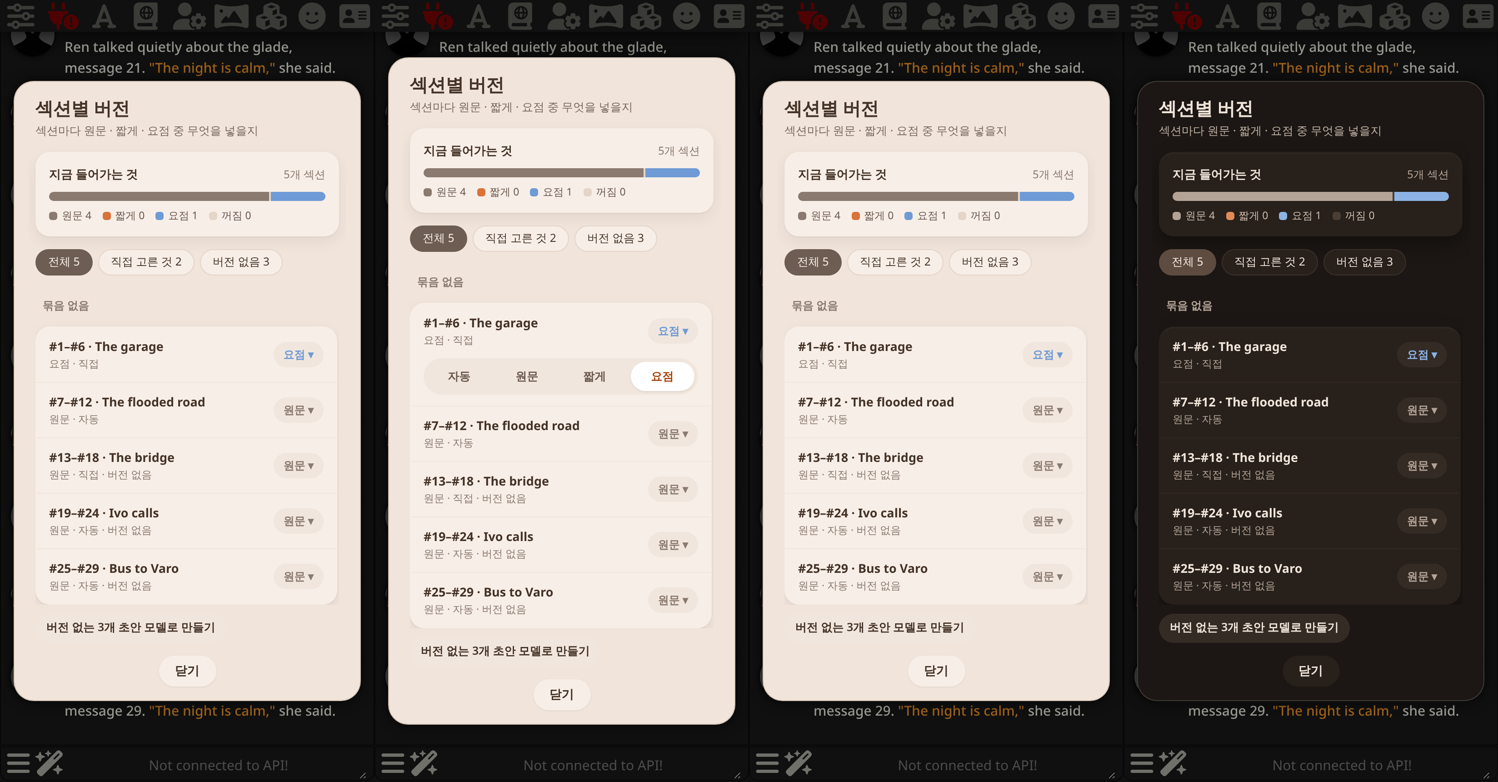
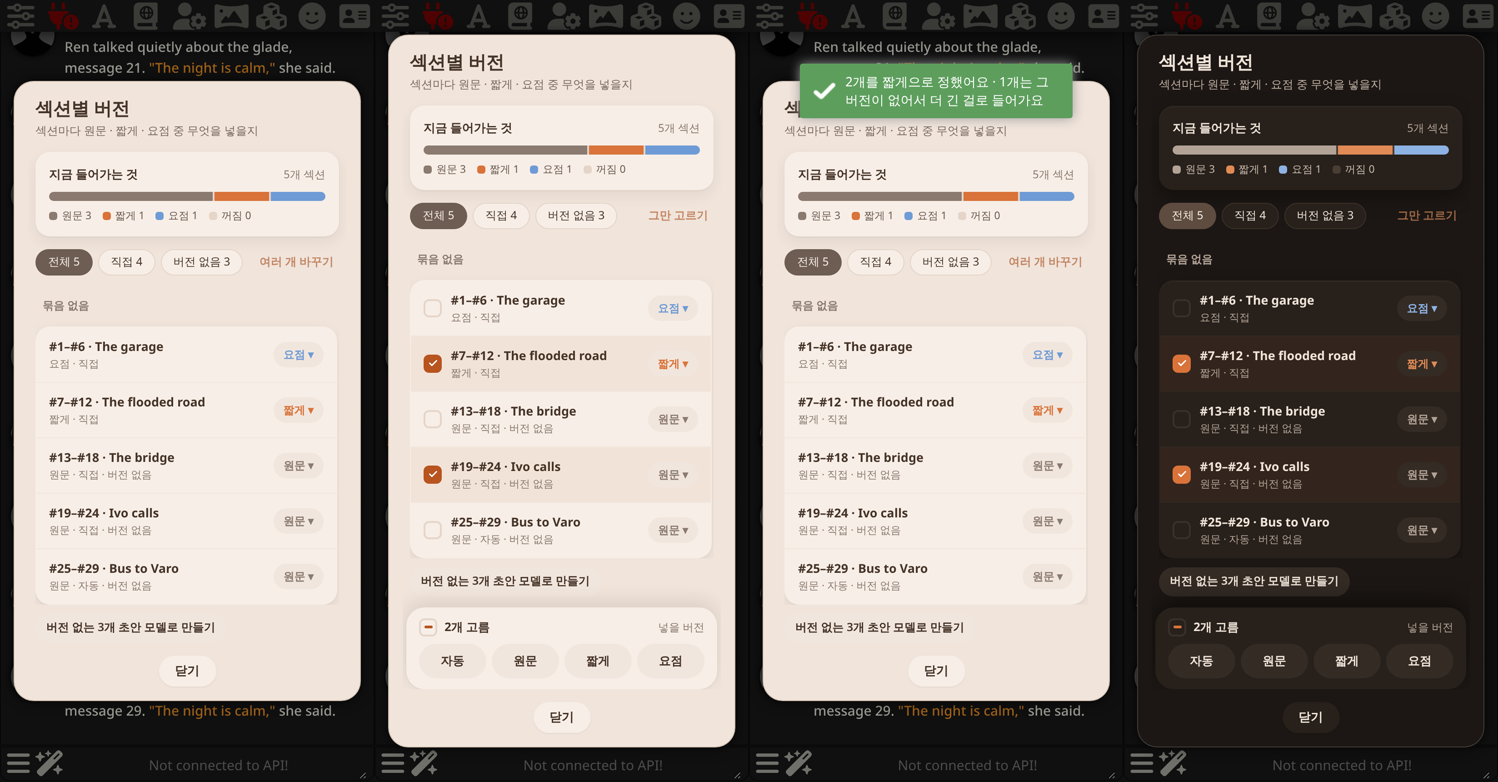
3.164.1: 섹션별 버전: 여러 개 바꾸기 — tick sections, set them all at once from a sheet at the bottom (자동 · 원문 · 짧게 · 요점)
Claude-Session: https://claude.ai/code/session_01TBUyc5NesEMBcPKHWzpL6W

diff --git a/src/fade.js b/src/fade.js
@@ -449,14 +449,19 @@ export async function openFadePicker() {
     // menu (자동 · 원문 · 짧게 · 요점; a version not made yet is greyed); 꺼짐 rows are dimmed
     const c = ctx();
     const name = { long: '원문', short: '짧게', line: '요점', off: '꺼짐' };
-    let filter = 'all', open = '';
+    let filter = 'all', open = '', multi = false;
+    const picked = new Set();
     const $root = $(`
       <div class="na_popup na_v2 na_fp na_fp3">
         <div class="na_v2_title"><b>섹션별 버전</b><small>섹션마다 원문 · 짧게 · 요점 중 무엇을 넣을지</small></div>
         <div class="na_v2_card na_fp3_sum"></div>
-        <div class="na_v2_chips na_fp_filters"></div>
+        <div class="na_fp3_fl"><div class="na_v2_chips na_fp_filters"></div><button type="button" class="na_linkbtn na_fp3_multi">여러 개 바꾸기</button></div>
         <div class="na_fp_list"></div>
         <div class="na_fp3_more"><button type="button" class="na_fp3_tool na_fp_make" hidden></button></div>
+        <div class="na_fp3_bulk" hidden>
+          <div class="na_fp3_bh"><label class="na_fp3_allp"><input type="checkbox" class="na_fp3_allbox"><span class="na_fp3_ck na_fp3_allck"></span><span class="na_fp3_n">0개 고름</span></label><small>넣을 버전</small></div>
+          <div class="na_fp3_set">${[['auto', '자동'], ['long', '원문'], ['short', '짧게'], ['line', '요점']].map(([v, l]) => `<button type="button" data-v="${v}">${l}</button>`).join('')}</div>
+        </div>
       </div>`);
     const rows = () => {
         const m = getMeta();
@@ -482,7 +487,7 @@ export async function openFadePicker() {
         $root.find('.na_fp3_sum').html(`<div class="na_fp3_sh"><b>지금 들어가는 것</b><small>${all.length}개 섹션</small></div>
           <div class="na_fp3_bar">${['long', 'short', 'line', 'off'].map(u => cnt[u] ? `<i class="u_${u}" style="flex:${cnt[u]}"></i>` : '').join('')}</div>
           <div class="na_fp3_leg">${['long', 'short', 'line', 'off'].map(u => `<span class="u_${u}"><i></i>${name[u]} ${cnt[u]}</span>`).join('')}</div>`);
-        $root.find('.na_fp_filters').html([['all', `전체 ${all.length}`], ['manual', `직접 고른 것 ${manualN}`], ['miss', `버전 없음 ${missN}`]].map(([f, l]) => `<button type="button" data-f="${f}" class="${filter === f ? 'on' : ''}">${l}</button>`).join(''));
+        $root.find('.na_fp_filters').html([['all', `전체 ${all.length}`], ['manual', `직접 ${manualN}`], ['miss', `버전 없음 ${missN}`]].map(([f, l]) => `<button type="button" data-f="${f}" class="${filter === f ? 'on' : ''}">${l}</button>`).join(''));
         const show = all.filter(r => filter === 'all' || (filter === 'manual' ? r.force : !r.muted && (!r.has.short || !r.has.line)));
         let lastGroup = null;
         $root.find('.na_fp_list').html(show.length ? show.map(r => {
@@ -491,13 +496,33 @@ export async function openFadePicker() {
             const [num, ...rest] = r.s.title.split(' — ');
             const nm = rest.join(' — ').replace(/\s*\([^)]*\)\s*$/, '');
             const why = r.muted ? '꺼짐 · 망각 곡선 밖' : [name[r.use], r.force ? '직접' : r.p?.why === 'pin' ? '고정' : r.p?.why === 'called' ? '불려 옴' : '자동', !r.has.short && !r.has.line ? '버전 없음' : ''].filter(Boolean).join(' · ');
-            const menu = open === r.k && !r.muted ? `<div class="na_fp3_menu">${[['auto', '자동'], ['long', '원문'], ['short', '짧게'], ['line', '요점']].map(([v, l]) => `<button type="button" data-v="${v}" class="${(r.force || 'auto') === v ? 'on' : ''}"${(v === 'short' && !r.has.short) || (v === 'line' && !r.has.line) ? ' data-miss="1"' : ''}>${l}${(v === 'short' && !r.has.short) || (v === 'line' && !r.has.line) ? '<small>없음</small>' : ''}</button>`).join('')}</div>` : '';
-            return `${head}<div class="na_fp3_row${r.muted ? ' off' : ''}" data-k="${esc(r.k)}"><span class="na_fp3_tt"><b>${esc(num)}${nm ? ` · ${esc(nm)}` : ''}</b><small>${esc(why)}</small></span>${r.muted ? `<span class="na_fp3_pick off">꺼짐</span>` : `<button type="button" class="na_fp3_pick u_${r.use}">${name[r.use]} ▾</button>`}</div>${menu}`;
+            const menu = !multi && open === r.k && !r.muted ? `<div class="na_fp3_menu">${[['auto', '자동'], ['long', '원문'], ['short', '짧게'], ['line', '요점']].map(([v, l]) => `<button type="button" data-v="${v}" class="${(r.force || 'auto') === v ? 'on' : ''}"${(v === 'short' && !r.has.short) || (v === 'line' && !r.has.line) ? ' data-miss="1"' : ''}>${l}${(v === 'short' && !r.has.short) || (v === 'line' && !r.has.line) ? '<small>없음</small>' : ''}</button>`).join('')}</div>` : '';
+            const ck = multi ? `<span class="na_fp3_ck${picked.has(r.k) ? ' on' : ''}">${picked.has(r.k) ? svgA(ICO_A.check, 11, 3.4) : ''}</span>` : '';
+            return `${head}<div class="na_fp3_row${r.muted ? ' off' : ''}${multi ? ' pickable' : ''}${picked.has(r.k) ? ' picked' : ''}" data-k="${esc(r.k)}">${ck}<span class="na_fp3_tt"><b>${esc(num)}${nm ? ` · ${esc(nm)}` : ''}</b><small>${esc(why)}</small></span>${r.muted ? `<span class="na_fp3_pick off">꺼짐</span>` : `<button type="button" class="na_fp3_pick u_${r.use}">${name[r.use]} ▾</button>`}</div>${menu}`;
         }).join('') + '</div>' : '<div class="na_empty">해당하는 섹션이 없어요.</div>');
         $root.find('.na_fp_make').prop('hidden', !missN || !draftReady()).text(`버전 없는 ${missN}개 초안 모델로 만들기`);
+        const vis = show.map(r => r.k);
+        $root.find('.na_fp3_multi').text(multi ? '그만 고르기' : '여러 개 바꾸기');
+        $root.find('.na_fp3_bulk').prop('hidden', !multi);
+        $root.find('.na_fp3_n').text(`${picked.size}개 고름`);
+        $root.find('.na_fp3_allbox').prop('checked', vis.length > 0 && vis.every(k => picked.has(k))).prop('indeterminate', picked.size > 0 && !vis.every(k => picked.has(k)));
+        $root.find('.na_fp3_set button').prop('disabled', !picked.size);
+        const allOn = vis.length > 0 && vis.every(k => picked.has(k));
+        $root.find('.na_fp3_allck').toggleClass('on', allOn).html(allOn ? svgA(ICO_A.check, 11, 3.4) : picked.size ? '<i></i>' : '');
     };
+    $root.on('click', '.na_fp3_multi', () => { multi = !multi; open = ''; if (!multi) picked.clear(); draw(); });
+    $root.on('click', '.na_fp3_row.pickable', function () { const k = String($(this).data('k')); picked.has(k) ? picked.delete(k) : picked.add(k); draw(); });
+    $root.on('change', '.na_fp3_allbox', function () { $root.find('.na_fp3_row').each((i, el) => { const k = String($(el).data('k')); this.checked ? picked.add(k) : picked.delete(k); }); draw(); });
+    $root.on('click', '.na_fp3_set button', async function () {
+        const v = this.dataset.v, keys = [...picked];
+        if (!keys.length) return;
+        await setFadeForce(keys, v);
+        const left = v === 'short' || v === 'line' ? rows().filter(r => picked.has(r.k) && r.p && fadeUse(getMeta(), getMeta().text, r.p.s, v) !== v).length : 0;
+        toastr.success(`${keys.length}개를 ${v === 'auto' ? '자동(망각 곡선)' : name[v]}으로 정했어요${left ? ` · ${left}개는 그 버전이 없어서 더 긴 걸로 들어가요` : ''}`);
+        picked.clear(); multi = false; draw();
+    });
     $root.on('click', '.na_fp_filters button', function () { filter = this.dataset.f; open = ''; draw(); });
-    $root.on('click', '.na_fp3_pick:not(.off)', function () { const k = String($(this).closest('.na_fp3_row').data('k')); open = open === k ? '' : k; draw(); });
+    $root.on('click', '.na_fp3_row:not(.pickable) .na_fp3_pick:not(.off)', function () { const k = String($(this).closest('.na_fp3_row').data('k')); open = open === k ? '' : k; draw(); });
     $root.on('click', '.na_fp3_menu button', async function () {
         const k = open, v = this.dataset.v;
         await setFadeForce([k], v);

diff --git a/style.css b/style.css
@@ -7385,3 +7385,24 @@ body.na_darkui .na_fp3_menu button.on { background: #4A3D34; color: #F2B48A; }
 .na_fp3_more { display: flex; margin-top: 10px; }
 .na_fp3_more:has(.na_fp_make[hidden]) { display: none; }
 .na_fp3_tool { display: inline-flex; align-items: center; gap: 6px; height: 32px; padding: 0 12px; border: 0; border-radius: 999px; background: var(--na-card2) !important; color: var(--na-ink); font: inherit; font-size: 12.5px; font-weight: 600; cursor: pointer; }
+/* 섹션별 버전 › 여러 개 바꾸기: rows get a tick, a sheet at the bottom sets the picked ones at once */
+.na_fp3_fl { display: flex; align-items: center; justify-content: space-between; gap: 8px; margin-top: 14px; }
+.na_fp3 .na_fp3_fl .na_fp_filters { margin-top: 0; flex-wrap: nowrap; min-width: 0; }
+.na_fp3_allp input { position: absolute; opacity: 0; pointer-events: none; }
+.na_fp3_allck i { width: 9px; height: 2.5px; border-radius: 2px; background: var(--na-accent); }
+.na_fp3_multi { flex: none; font-size: 12.5px; font-weight: 700; color: var(--na-accent-ink); }
+.na_fp3_row.pickable { cursor: pointer; }
+.na_fp3_row.pickable .na_fp3_pick { pointer-events: none; }
+.na_fp3_row.picked { background: color-mix(in srgb, var(--na-accent) 7%, transparent); }
+.na_fp3_ck { width: 20px; height: 20px; box-sizing: border-box; flex: none; border-radius: 6px; border: 2px solid var(--na-line); display: grid; place-items: center; color: #fff; }
+.na_fp3_ck.on { border: 0; background: var(--na-accent); }
+.na_fp3_bulk { position: sticky; bottom: 0; z-index: 3; margin: 12px -4px 0; padding: 12px 14px; border-radius: 20px; background: var(--na-card); box-shadow: 0 -6px 20px rgba(70, 52, 40, 0.12), 0 1px 2px rgba(70, 52, 40, 0.06); }
+body.na_darkui .na_fp3_bulk { box-shadow: 0 -8px 24px rgba(0, 0, 0, 0.45); }
+.na_fp3_bulk[hidden] { display: none; }
+.na_fp3_bh { display: flex; align-items: center; justify-content: space-between; margin-bottom: 8px; }
+.na_fp3_allp { display: inline-flex !important; align-items: center; gap: 8px; margin: 0; font-size: 13px; font-weight: 700; cursor: pointer; }
+.na_fp3_bh small { font-size: 12px; color: var(--na-dim); }
+.na_fp3_set { display: grid; grid-template-columns: repeat(4, 1fr); gap: 6px; }
+.na_fp3_set button { height: 38px; border: 0; border-radius: 999px; background: var(--na-card2); color: var(--na-ink); font: inherit; font-size: 13px; font-weight: 700; cursor: pointer; }
+.na_fp3_set button:not(:disabled):hover { background: var(--na-accent); color: #fff; }
+.na_fp3_set button:disabled { opacity: 0.45; cursor: default; }

diff --git a/src/core.js b/src/core.js
@@ -12,7 +12,7 @@ import { parseSections } from './sections.js';
 
 export const MODULE = 'narrative_archive';
 export const PROMPT_KEY = 'narrative_archive_injection';
-export const VERSION = '3.164.0';
+export const VERSION = '3.164.1';
 export const SNAPSHOT_MAX = 5;
 export const SNAPSHOT_MAX_CHARS = 2_000_000;
 
